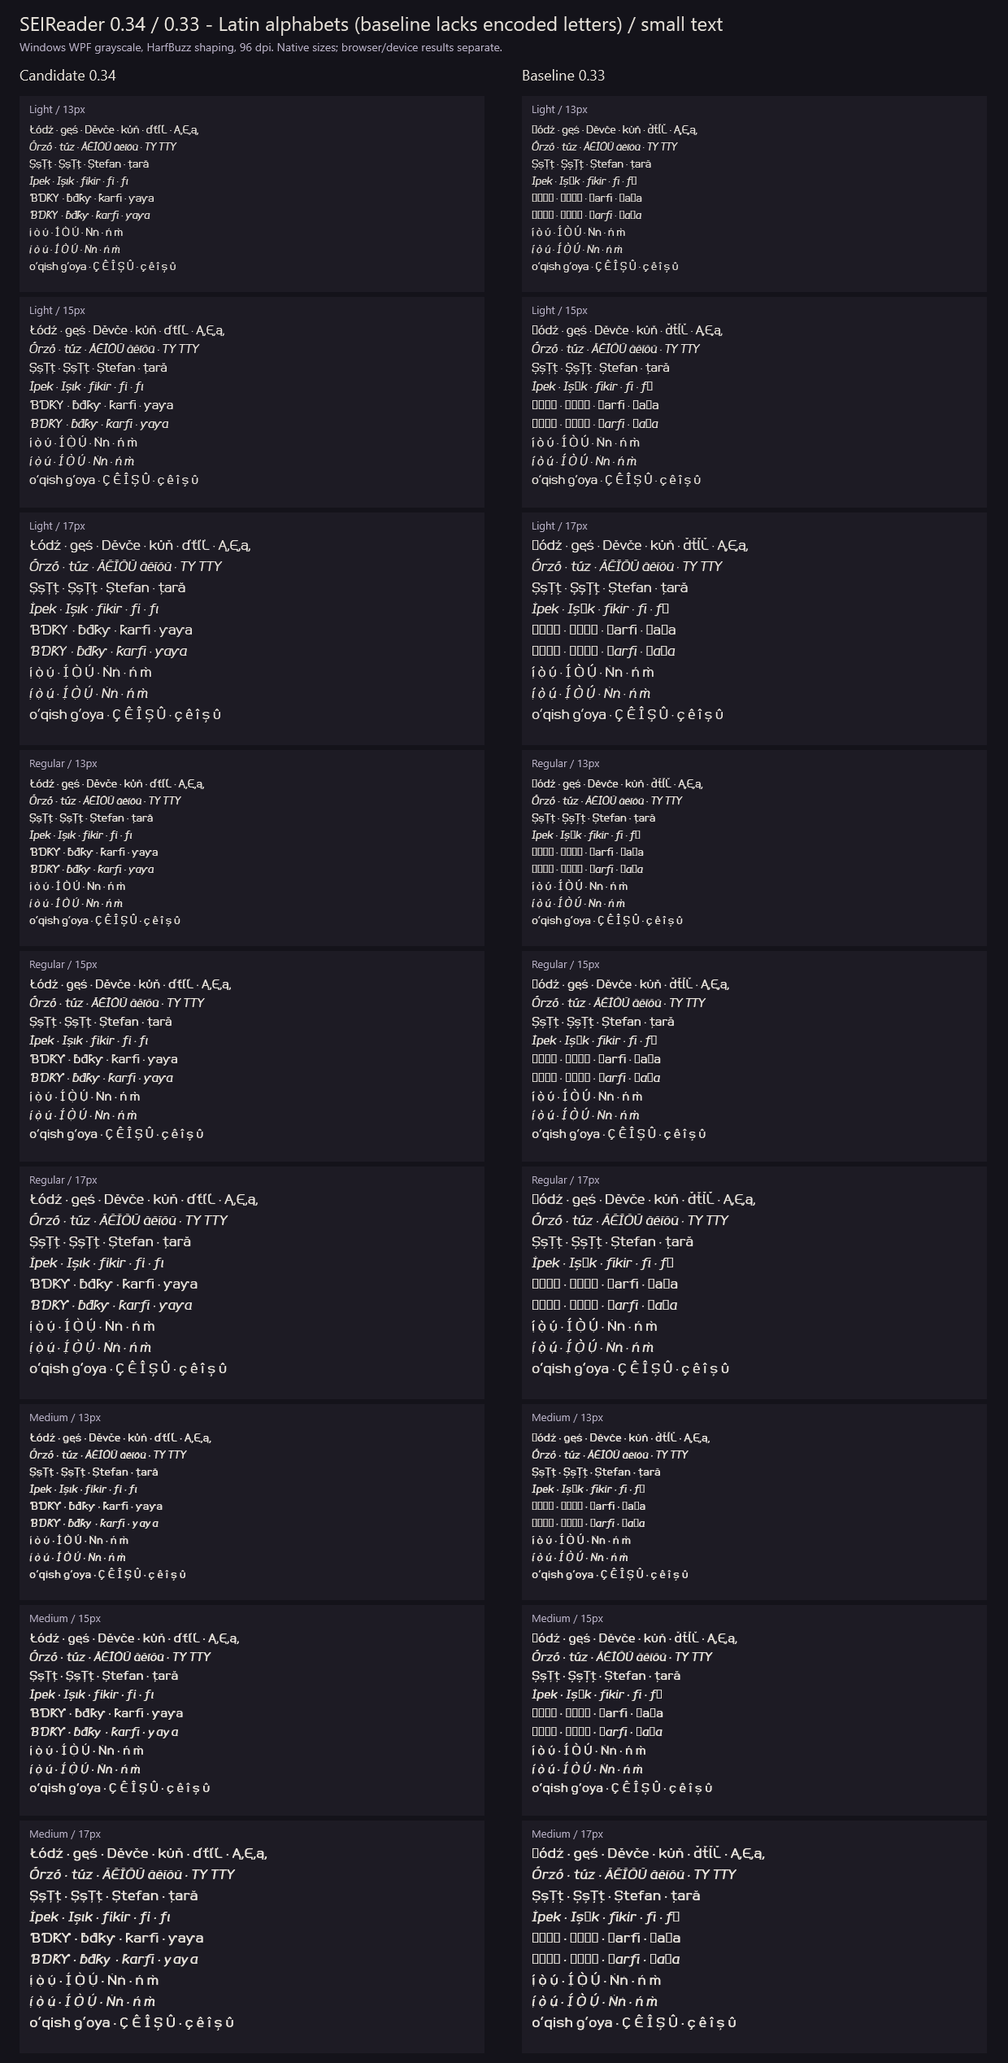
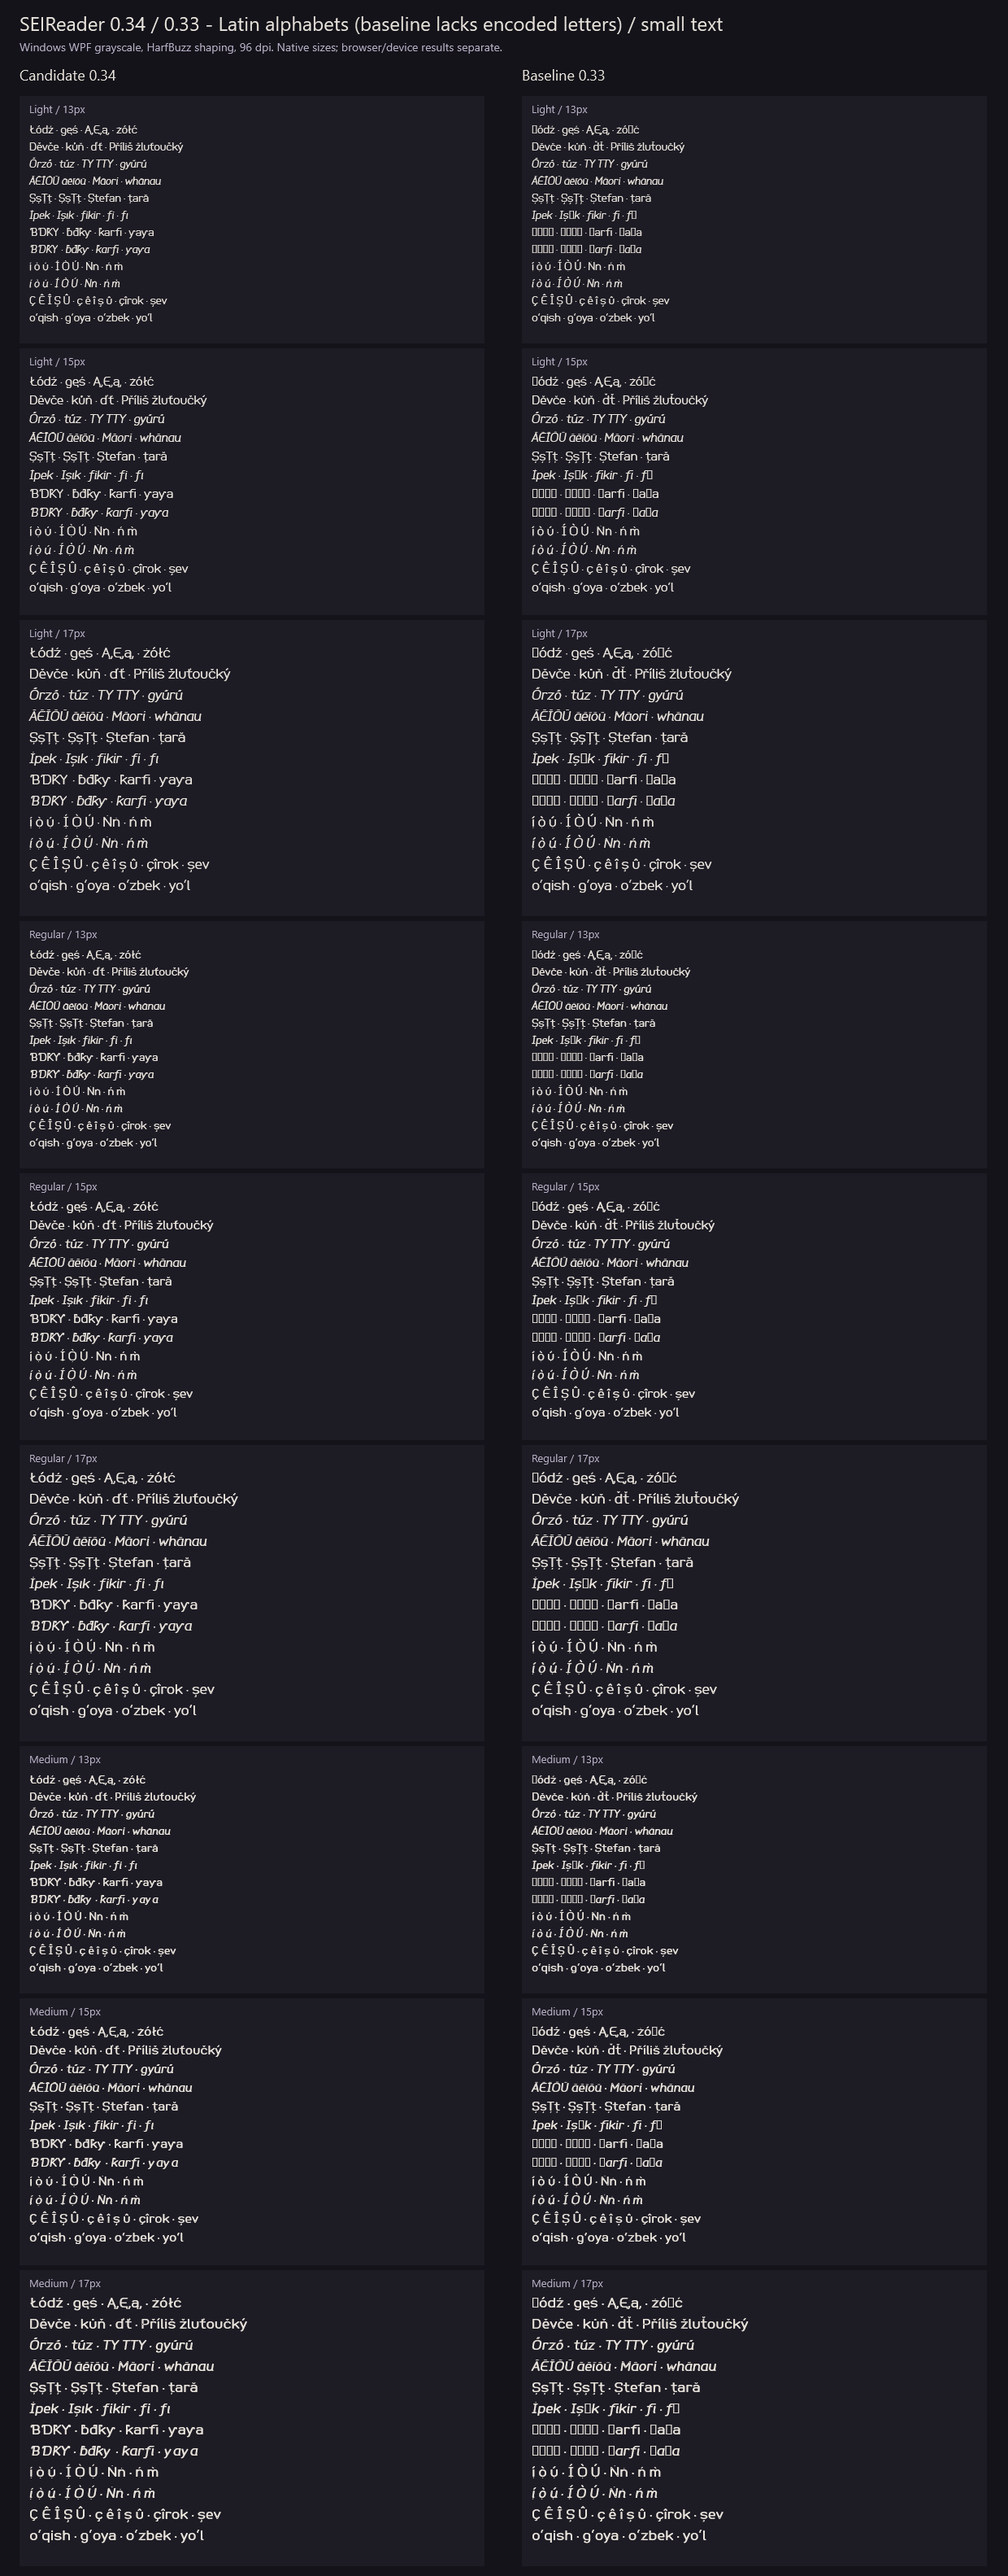
Render language proofs with distinct locale tags

Changed region(s): [[0.0, 0.0, 0.7355, 0.9968], [0.6435, 0.0, 0.6742, 0.0312]]

diff --git a/render_small_text.py b/render_small_text.py
@@ -69,15 +69,18 @@ def render(output, dpi=96, full_family=False, texture=False, latin=False, langua
                     ]
                 if languages:
                     samples=[
-                        ('Łódź · gęś · Děvče · kůň · ďťľĽ · Ą,Ę,ą,',False,{},'cs'),
-                        ('Őrző · tűz · ĀĒĪŌŪ āēīōū · TY TTY',True,{},'hu'),
+                        ('Łódź · gęś · Ą,Ę,ą, · żółć',False,{},'pl'),
+                        ('Děvče · kůň · ďť · Příliš žluťoučký',False,{},'cs'),
+                        ('Őrző · tűz · TY TTY · gyűrű',True,{},'hu'),
+                        ('ĀĒĪŌŪ āēīōū · Māori · whānau',True,{},'mi'),
                         ('ȘșȚț · ŞşŢţ · Ștefan · țară',False,{},'ro'),
                         ('İpek · Işık · fikir · fi · fı',True,{},'tr'),
                         ('ƁƊƘƳ · ɓɗƙƴ · ƙarfi · ƴaƴa',False,{},'ha'),
                         ('ƁƊƘƳ · ɓɗƙƴ · ƙarfi · ƴaƴa',True,{},'ha'),
                         ('ị́ ọ̀ ụ́ · Ị́ Ọ̀ Ụ́ · Ṅṅ · ń m̀',False,{},'ig'),
                         ('ị́ ọ̀ ụ́ · Ị́ Ọ̀ Ụ́ · Ṅṅ · ń m̀',True,{},'ig'),
-                        ('oʻqish gʻoya · Ç Ê Î Ş Û · ç ê î ş û',False,{},'uz'),
+                        ('Ç Ê Î Ş Û · ç ê î ş û · çîrok · şev',False,{},'ku'),
+                        ('oʻqish · gʻoya · oʻzbek · yoʻl',False,{},'uz'),
                     ]
                 for text, italic, features, *locales in samples:
                     style = ('Italic' if weight == 'Regular' else weight+'Italic') if italic else weight
